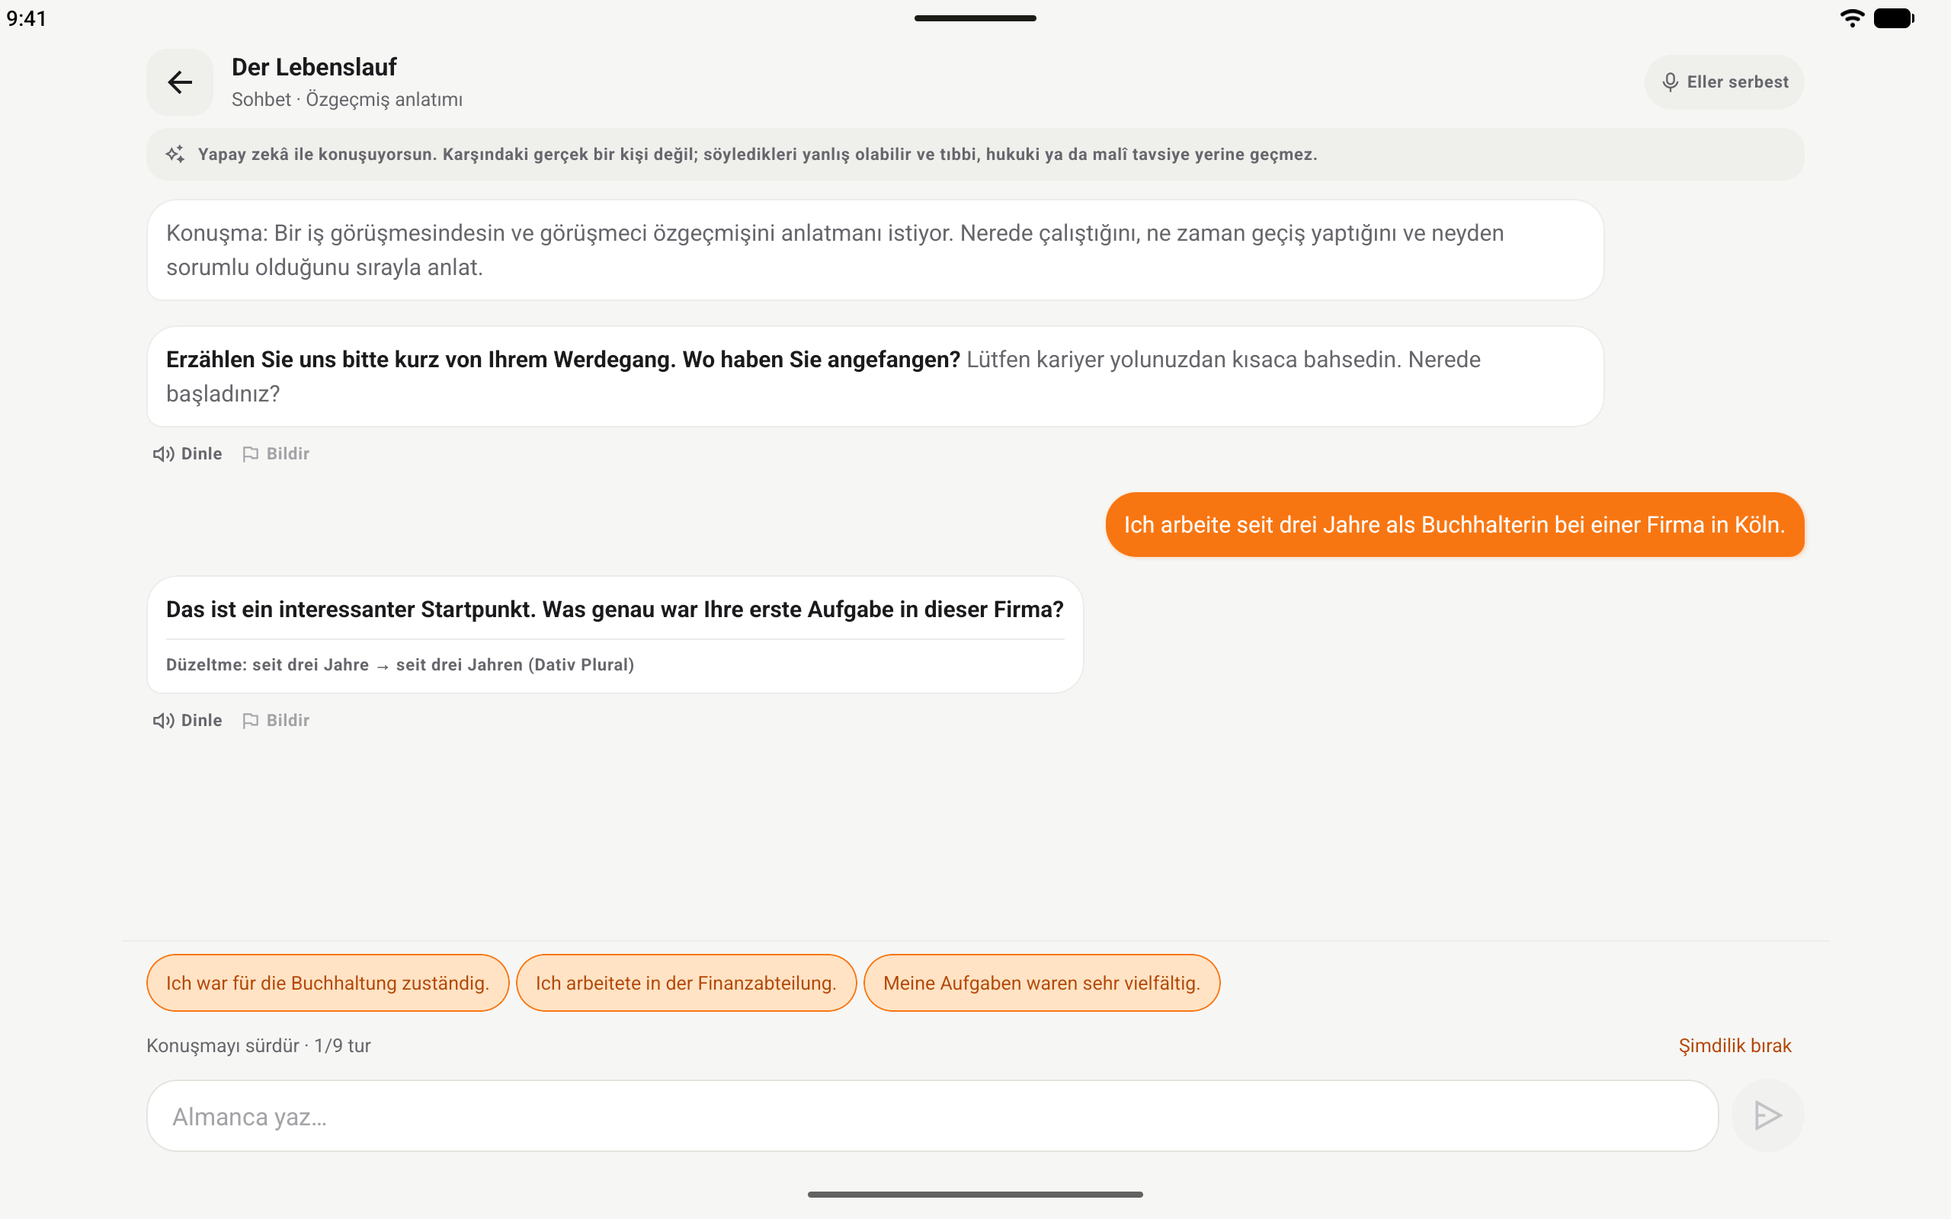
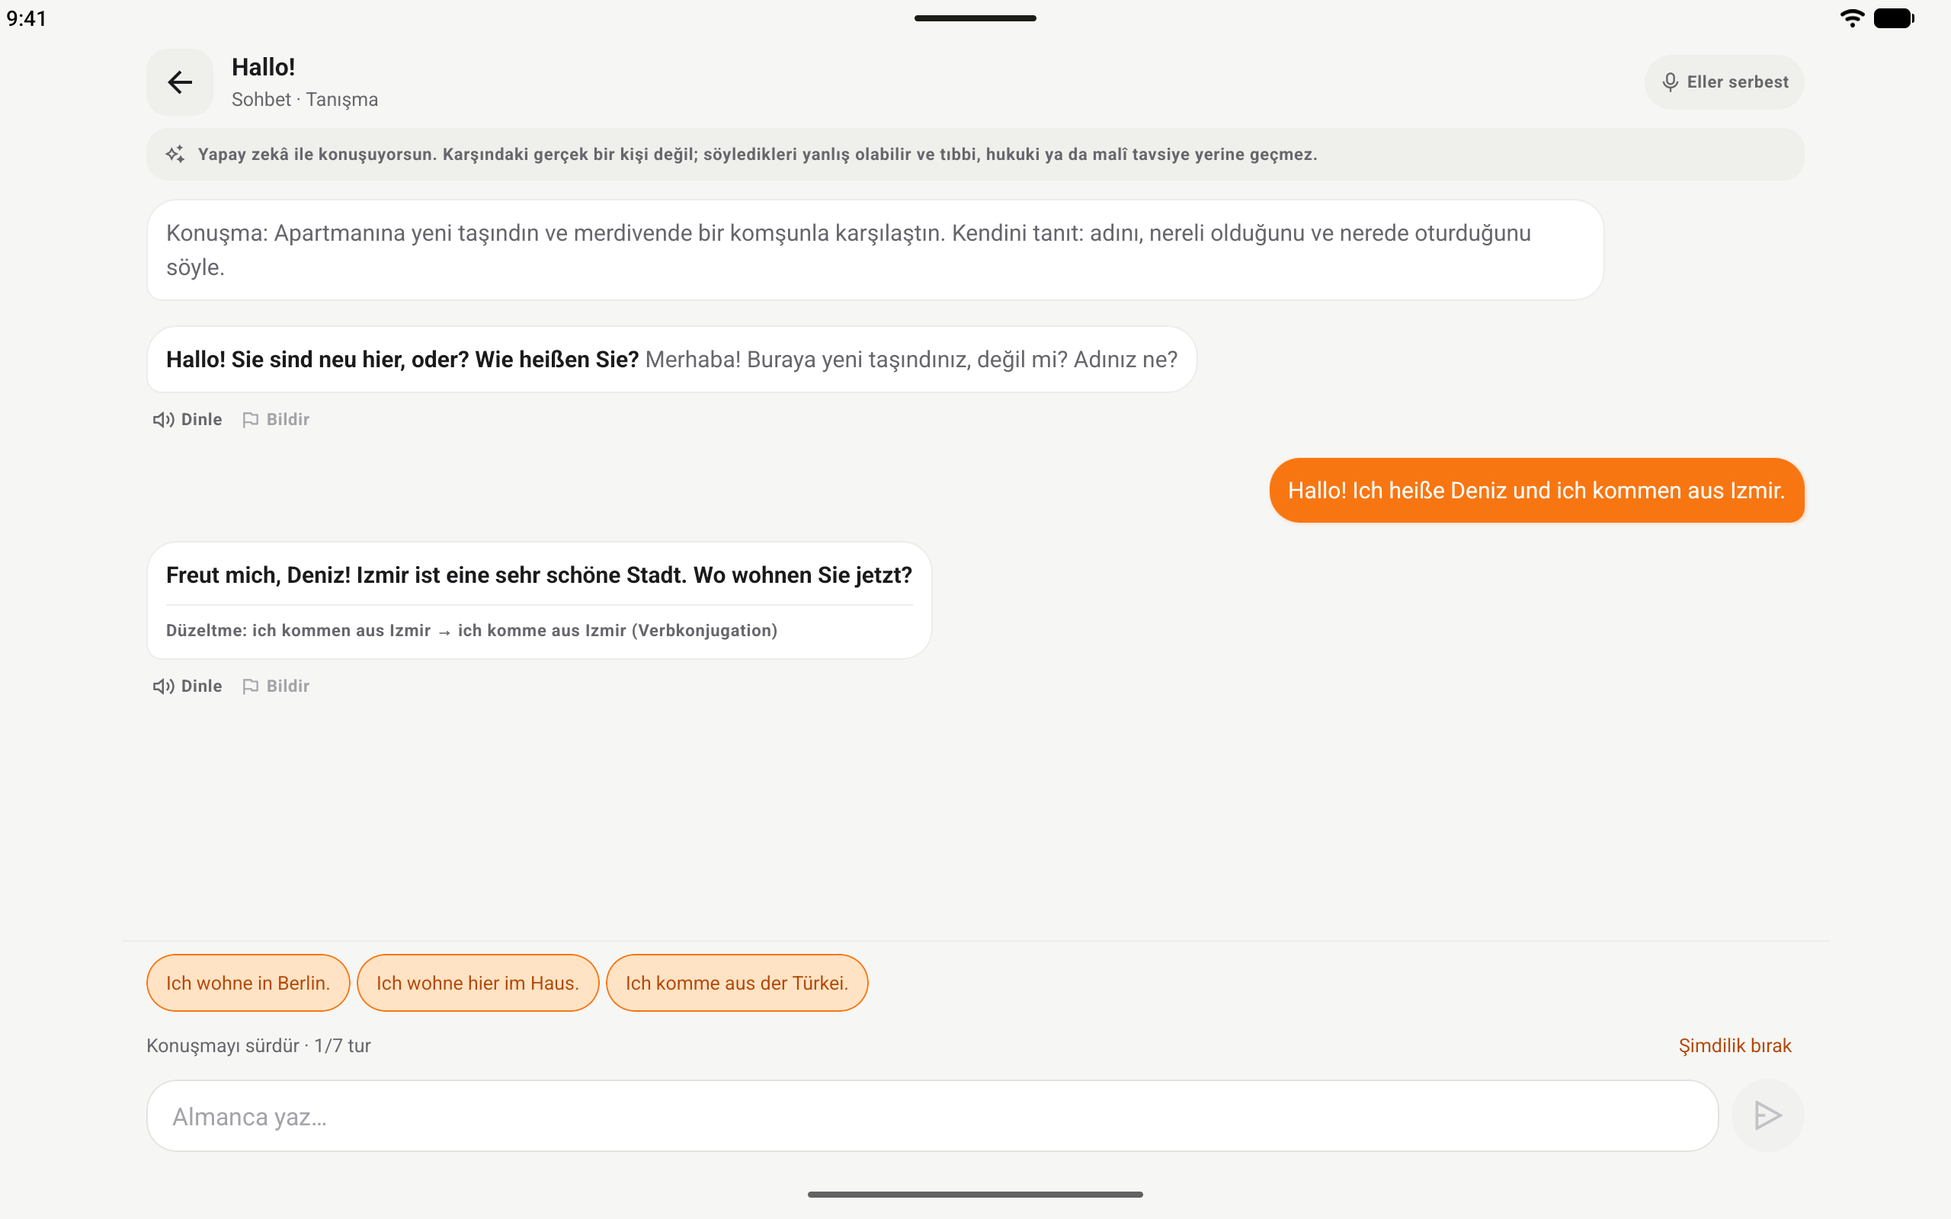
Vitrin 5. tur (16 kişi): ücretsiz/Premium tek paragraf, de sahneleri İngilizce kursa göre, konuşma karesi A1'den (3 çift × 4 cihaz), en/de 3. kare günlük tur, B2/C1 resmî yazı, günlük turda seri ve lig
Claude-Session: https://claude.ai/code/session_011dWXugcvRJqz57tBPnvci7

diff --git a/docs/store/README.md b/docs/store/README.md
@@ -131,6 +131,24 @@ içeriği önerilerini reddetti):** Türkçe 3. kare başlığı "Dört becerili
 "Ausbildung, iş ya da aile birleşimi için Almancaya sıfırdan mı başlıyorsun?" (vaat yok; sertifika uyarısı
 yerinde). "Sohbette yazarak da cevap verirsin" girişe taşındı. Yer için üç cümle kısaldı.
 
+**Vitrin provası 5. tur, 16 kişi (2026-10-05; Samet altı önerinin hepsini onayladı, "ürün çizgisinden ayrılmadan"):**
+- Ücretsiz/Premium sınırı tek paragrafta: önce ücretsiz olanlar, sonra "Yapay zekâyla konuşma ve yazma da ücretsiz
+  başlar: her seviyede … 2'şer çalışma açık; bitirip 7 gün üst üste çalışınca 2'şer yeni hak ve 1 deneme sınavı daha
+  gelir" (en/de aynı). Landing ücretsiz listesi de "Yapay zekâyla konuşma ve yazma:" diye başlıyor.
+- de vitrin İngilizce öğrenen Almanca konuşana göre: sahneler "Im Café, am Flughafen, beim Arzt, im
+  Vorstellungsgespräch, im Meeting" (İngilizce kursta `en-a1-cafe`, `en-a2-airport`, `en-a1-doctor`,
+  `en-b1-job-interview`, `en-a2-meeting`); "Lieber nicht sprechen? Im Chat antwortest du auch schriftlich."
+- Konuşma karesi üç dil çiftinde A1 ilk sohbetten (yukarıdaki kare listesi); landing konuşma dökümleri aynı çekimden.
+- en/de'de arama sonucundaki 3. kare günlük tur (yürüyüş 4'e indi; "3 free rounds" sınırla açılmasın).
+- İleri seviye: "Dili biliyorsan Beceriler'de B2 ya da C1'den başlarsın; başvuru, şikâyet ve resmî mektup yazma
+  görevleri de var" (Almanca: Beschwerdebrief, Formeller Widerspruch, Bewerbung um ein Stipendium; İngilizce:
+  letters, emails, reports). Landing Beceriler bölümü aynı.
+- Sosyal: günlük tur karesinin alt satırı seri ve arkadaşlarla lig (Görsel çerçeve: oyunlaştırma tek karede).
+- Yer için konuşma adımındaki "anadilde anlatımla başlar" cümlesi açıklamadan çıktı (başlık, giriş ve ilk kare
+  söylüyor; landing'de duruyor).
+- Reddedilenler (Samet, 4. tur): seviye başına deneme sınavı sayısı, İngilizce iş içeriği. Kapsanmayan kitleler
+  (aile, meslek Almancası, film/şarkı) içerik/ürün açığı; vitrin iddia etmez.
+
 **Beş sütun (öncelik sırası):** 1) **A1'den C1'e adım adım**, Türkçe anlatım ("müfredat" ve "tam" kullanılmaz) · 2) konuşarak
 öğren: gerçek hayattan durumlarda yapay zekâ karakteriyle sohbet + konuşmaya geri bildirim · 3) dört becerili deneme sınavları,
 konuşma ve yazma da puanlanır · 4) Cepte yürüyüş (ekran kapalı, **Premium**; ekran açık
@@ -141,10 +159,10 @@ yürüyüş ücretsizde günde 3 tur, `plan.free_walk`) · 5) günlük kelime tu
 | # | Sütun | Ekran | İçerik durumu (çekimde hazırlanacak) | Altyazı taslağı |
 |---|---|---|---|---|
 | 1 | A1'den C1'e adım adım | Patika: A1→C1 ünite haritası (Okuma, Dinleme, Konuşma, Yazma, Dil bilgisi, Quiz, Sınav) | A1, ilk ünite "şu an" (2026-10-05: `screenshots@` çekim süresince Samet'in onayıyla A1'e alındı, sonra B1/Almanca/Türkçe'ye döndü; satır öncesiyle aynı, yalnız şartlar 1.9.2 onayı yeni). Seviye çizgisi `currentLevel` A1 | Sıfırdan C1'e, Türkçe anlatımla · Seviyeni seç ya da kısa testle bul (2026-10-05; önce: A1'den C1'e adım adım, Türkçe anlatımla) |
-| 2 | Konuşma | Patika › Konuşma adımı: sahne sohbeti | Gerçek bir sahne (ör. B1 doktor randevusu); kullanıcının cümlesi ve düzeltmesi görünür; yapay zekâ bildirimi görünür | Konuş, düzeltmeni anında gör |
+| 2 | Konuşma | Patika › Konuşma adımı: sahne sohbeti | A1 ilk sohbet (tr/en: "Hallo!" komşuyla tanışma, de: "Hello!" dil kursunun ilk günü), yazarak cevaplanmış, tek fiil çekimi hatası ve düzeltmesi, üç öneri; yapay zekâ bildirimi görünür (2026-10-05) | Konuş, düzeltmeni anında gör · Gerçek hayattan sahneler; istersen yazarak cevap ver |
 | 3 | Sınav | Deneme sınavı sonucu | B1 deneme sınavı, yazma ya da konuşma bölümünün sonucu: bölüm yüzdesi, "Ölçüm hedeflerine göre" çubukları (görev puanlarından, 745930f5) ve yapılacaklar listesi; incelemede hata→düzeltme. Yeni etiketler ("yapay zekâ puanlar") build 11 ile: çekim build 11+ ile | tr: Dört becerili deneme sınavı · Konuşma ve yazma da puanlanır; her seviyede 1'i ücretsiz, fazlası Premium'da (2026-10-05, 4. tur; en/de başlık "puanlanır" cümlesi) |
 | 4 | Fark | Cepte yürüyüş + kilit ekranı | Ekran kapalı akış; kilit ekranında "Yürüyüş modu açık" | Ekrana bakmadan, yolda çalış · Günde 3 tur ücretsiz, ekran kapalıyken Premium (2026-10-05; ham görüntü ekran açık giriş) |
-| 5 | Alışkanlık | Günlük kelime turu | Sesli tur, kalan kelime sayısı | Her gün, unutmadan önce |
+| 5 | Alışkanlık | Günlük kelime turu | Sesli tur, kalan kelime sayısı | Her gün, unutmadan önce · Aralıklı tekrar; seri ve arkadaşlarla haftalık lig (oyunlaştırmanın tek karesi, ana mesaj değil) |
 | 6 | Beceriler | Beceri kütüphanesi | Beş beceri kartı | Okuma, dinleme, yazma, konuşma, dil bilgisi |
 
 **iPad 13" (yatay, 4 kare):** 1, 2, 3 ve 6 (tablet içerik kolonu en iyi bu ekranlarda).
@@ -175,17 +193,17 @@ Tasarım bu çerçeveyle yapılır:
 **Onaylanan Türkçe uzun açıklama (App Store + Play ortak, 2026-09-25):** 41 iddia koda, canlı
 ayara ve içeriğe karşı doğrulandı (kanıt tablosu oturum çıktısında). Kararlar: belge her yerde
 "başarı belgesi"; seri kademesi tavansız ("sonra her 7 günlük seride yeniden" doğru); fiyat
-cümlesi yok (mağaza ve paywall gösteriyor). Karakter: 3990/4000 (2026-10-05, 4. tur). Anlatım ekranda yazı, sesli okunan yalnız öğrenilen dil ("okursun"). Paragraflar
+cümlesi yok (mağaza ve paywall gösteriyor). Karakter: 3963/4000 (2026-10-05, 5. tur). Anlatım ekranda yazı, sesli okunan yalnız öğrenilen dil ("okursun"). Paragraflar
 tek satır: Console'a yapıştırınca satır ortasında kırılmasın.
 
 ```text
 Ausbildung, iş ya da aile birleşimi için Almancaya sıfırdan mı başlıyorsun? Lernomi ile Almancayı C1'e kadar, Türkçe anlatımla ve konuşarak öğren. Dili kullanırsın, konuşmana ve yazına geri bildirim alırsın, hazır olduğunda deneme sınavlarıyla kendini ölçersin. Konuşmaya çekiniyorsan sohbette yazarak da cevap verirsin. Kelime, okuma, dinleme ve dil bilgisi ücretsiz; reklam yok.
 
 A1'DEN C1'E ADIM ADIM
-Almancada 8.500'den fazla kelime ve 900'den fazla alıştırma. Patika seni seviye seviye, ünite ünite ilerletir: her ünitede okuma, dinleme, konuşma, yazma, dil bilgisi ve quiz adımları var; modül ve seviye sınavlarıyla nerede olduğunu görürsün. Başlangıç seviyeni kendin seç ya da kısa bir seviye testiyle bul. Dili biraz biliyorsan Beceriler'de istediğin seviyeden alıştırma yaparsın.
+Almancada 8.500'den fazla kelime ve 900'den fazla alıştırma. Patika seni seviye seviye, ünite ünite ilerletir: her ünitede okuma, dinleme, konuşma, yazma, dil bilgisi ve quiz adımları var; modül ve seviye sınavlarıyla nerede olduğunu görürsün. Başlangıç seviyeni kendin seç ya da kısa bir seviye testiyle bul. Dili biliyorsan Beceriler'de B2 ya da C1'den başlarsın; başvuru, şikâyet ve resmî mektup yazma görevleri de var.
 
 KONUŞARAK ÖĞREN
-Komşunla tanışırken, doktorda, ev bakarken, iş görüşmesinde, toplantıda… Gerçek hayatta karşına çıkacak durumları yapay zekâ karakteriyle konuşarak çalışırsın. Hatanı hemen düzeltir, takıldığında ne diyebileceğini önerir. Konuşma adımı Türkçe bir anlatımla başlar: kalıpları önce kendi dilinde okursun. İstersen sonunda puanlı konuşmayı denersin.
+Komşunla tanışırken, doktorda, ev bakarken, iş görüşmesinde, toplantıda… Gerçek hayatta karşına çıkacak durumları yapay zekâ karakteriyle konuşarak çalışırsın. Hatanı hemen düzeltir, takıldığında ne diyebileceğini önerir. İstersen sonunda puanlı konuşmayı denersin.
 
 DÖRT BECERİLİ DENEME SINAVLARI
 Her seviyede 1 deneme sınavı ücretsiz; Premium'da toplamda 50'den fazla. Her birinde okuma, dinleme, yazma ve konuşma bölümleri ve bölüm başına süre var. Okuma ve dinleme otomatik puanlanır; yazma ve konuşma cevaplarını yapay zekâ puanlar ve hatalarını düzeltmeleriyle gösterir. Sonunda başarı yüzdeni ve neye çalışman gerektiğini gösteren bir liste alırsın.
@@ -197,7 +215,7 @@ HER GÜN BİRKAÇ DAKİKA
 Günlük kelime turunda aralıklı tekrar, kelimeleri unutmadan önce yeniden karşına çıkarır. Pratikte istediğin kadar tekrar edersin; haftalık quiz, seri ve arkadaşlarla lig de var.
 
 ÜCRETSİZ
-Kelime çalışma, pratik, okuma, dinleme, dil bilgisi ve quiz ücretsiz ve sınırsız. Haftalık quiz, ekran açık yürüyüş ve her seviyede 1 deneme sınavı da ücretsiz. Her seviyede Patika'da ve Beceriler'de 2'şer konuşma ve yazma çalışması açık; bunları bitirip 7 gün üst üste çalışınca 2'şer hak ve 1 deneme sınavı daha açılır; her 7 günde yine.
+Kelime çalışma, pratik, okuma, dinleme, dil bilgisi ve quiz ücretsiz ve sınırsız; haftalık quiz, günde 3 yürüyüş turu (ekran açık) ve her seviyede 1 deneme sınavı da. Yapay zekâyla konuşma ve yazma da ücretsiz başlar: her seviyede Patika'da ve Beceriler'de 2'şer çalışma açık; bitirip 7 gün üst üste çalışınca 2'şer yeni hak ve 1 deneme sınavı daha gelir.
 
 PREMIUM
 Ekran kapalı Cepte yürüyüş, tüm deneme sınavları, Patika ve Beceriler'de bütün konuşma ve yazma çalışmaları, seri ve bitirme beklemeden. Her seviyede ilk 3 deneme sınavı hemen açık; bitirince sıradaki 3'ü gelir. Günlük adil kullanım sınırları Premium sayfasında yazar.
@@ -224,16 +242,16 @@ sahneler, bağlantılar). Almanca metinde Beceriler "Fertigkeiten" (Samet'in kar
 Haftalık quiz de en/de çevrili (kilitli `quiznative/*` paketleri); "explained in English /
 Erklärungen auf Deutsch" iddiası her içerik türü için doğru.
 
-en-US (3997/4000):
+en-US (3963/4000):
 
 ```text
 Learn German from zero to C1 with Lernomi: explained in English, practiced by speaking. Go beyond word lists: use the language, get feedback on your speaking and writing, and test yourself with mock exams when you're ready. Vocabulary, reading, listening and grammar are free, with no ads.
 
 A1 TO C1, STEP BY STEP
-More than 8,500 German words and more than 900 exercises. The Path takes you level by level, unit by unit: every unit has Reading, Listening, Speaking, Writing, Grammar and Quiz steps, and module and level exams show you where you stand. Pick your level or find it with a short placement test. Already know some German? Practice at any level in Skills.
+More than 8,500 German words and more than 900 exercises. The Path takes you level by level, unit by unit: every unit has Reading, Listening, Speaking, Writing, Grammar and Quiz steps, and module and level exams show you where you stand. Pick your level or find it with a short placement test. Already know some German? Start at B2 or C1 in Skills, with formal letters, applications and complaints to write.
 
 LEARN BY SPEAKING
-Meeting your neighbor, at the doctor's, viewing an apartment, in a job interview, in a meeting… Practice real-life situations by talking with an AI character. It corrects your mistakes right away and suggests what you could say when you get stuck. Shy about speaking? Type your answers in the chat. Each Speaking step opens with a short intro in English to the phrases you'll use. If you like, finish with a scored round.
+Meeting your neighbor, at the doctor's, viewing an apartment, in a job interview, in a meeting… Practice real-life situations by talking with an AI character. It corrects your mistakes right away and suggests what you could say when you get stuck. Shy about speaking? Type your answers in the chat. If you like, finish with a scored round.
 
 POCKET WALKING
 In Walk mode you study without looking at the screen: you hear the English cue and say the German word out loud. Free: 3 rounds a day with the screen on. Pocket Walking, with your phone in your pocket and the screen off, is Premium.
@@ -245,7 +263,7 @@ FOUR-SKILL MOCK EXAMS
 1 free mock exam per level; more than 50 in total with Premium. Each has Reading, Listening, Writing and Speaking sections, each with its own time limit. Reading and Listening are scored automatically; AI scores your written and spoken answers and shows your mistakes with corrections. At the end you get your score as a percentage and a list of what to work on.
 
 FREE
-Vocabulary, practice, reading, listening, grammar and quizzes are free and unlimited. The weekly quiz, Walk mode with the screen on and 1 mock exam per level are free too. At every level, 2 speaking and 2 writing tasks are open in both Path and Skills; finish them and study 7 days in a row to unlock 2 more of each and 1 more mock exam, then again every 7 days.
+Vocabulary, practice, reading, listening, grammar and quizzes are free and unlimited, plus the weekly quiz, 3 walk rounds a day with the screen on and 1 mock exam per level. AI speaking and writing start free too: at every level, 2 of each are open in Path and 2 in Skills; finish them and study 7 days in a row to get 2 more of each and 1 more mock exam.
 
 PREMIUM
 Pocket Walking with the screen off, every mock exam, and every Speaking and Writing step in Path plus all speaking and writing assessments in Skills, with no waiting for streaks or finishing. The first 3 mock exams per level open right away, then 3 more once you finish them. Daily fair-use limits are listed on the Premium page.
@@ -262,16 +280,16 @@ Terms of Use: https://www.lernomi.app/terms/en
 Privacy Policy: https://www.lernomi.app/privacy/en
 ```
 
-de-DE (3990/4000):
+de-DE (3959/4000):
 
 ```text
 Lerne mit Lernomi Englisch von null bis C1, mit Erklärungen auf Deutsch und durch Sprechen. Du benutzt die Sprache, bekommst Feedback zu Sprechen und Schreiben und misst dich mit Probeprüfungen. Vokabeln, Lesen, Hören und Grammatik: kostenlos, ohne Werbung.
 
 VON A1 BIS C1, SCHRITT FÜR SCHRITT
-Mehr als 7.000 Wörter und mehr als 900 Übungen. Der Pfad führt dich Niveau für Niveau, Einheit für Einheit: Jede Einheit hat die Schritte Lesen, Hören, Sprechen, Schreiben, Grammatik und Quiz; Modul- und Niveauprüfungen zeigen, wo du stehst. Dein Startniveau wählst du selbst oder per kurzem Einstufungstest. Mit Vorkenntnissen übst du bei den Fertigkeiten auf jedem Niveau.
+Mehr als 7.000 Wörter und mehr als 900 Übungen. Der Pfad führt dich Niveau für Niveau, Einheit für Einheit: Jede Einheit hat die Schritte Lesen, Hören, Sprechen, Schreiben, Grammatik und Quiz; Modul- und Niveauprüfungen zeigen, wo du stehst. Dein Startniveau wählst du selbst oder per kurzem Einstufungstest. Mit Vorkenntnissen startest du bei den Fertigkeiten auf B2 oder C1, auch mit formellen Briefen, E-Mails und Berichten.
 
 LERNEN DURCH SPRECHEN
-Beim Kennenlernen der Nachbarn, beim Arzt, bei der Wohnungsbesichtigung, im Vorstellungsgespräch, im Meeting … Alltagssituationen übst du im Gespräch mit einer KI-Figur. Sie korrigiert Fehler sofort und schlägt dir etwas vor, wenn du nicht weiterweißt. Im Chat kannst du auch schriftlich antworten. Jeder Sprechen-Schritt beginnt mit einer kurzen Einführung auf Deutsch. Am Ende kannst du dich bewerten lassen.
+Im Café, am Flughafen, beim Arzt, im Vorstellungsgespräch, im Meeting … Alltagssituationen übst du im Gespräch mit einer KI-Figur. Sie korrigiert Fehler sofort und schlägt dir etwas vor, wenn du nicht weiterweißt. Lieber nicht sprechen? Im Chat antwortest du auch schriftlich. Am Ende kannst du dich bewerten lassen.
 
 TASCHEN-GEHMODUS
 Im Gehmodus lernst du ohne Blick aufs Display: Du hörst den deutschen Hinweis und sagst das englische Wort laut. Kostenlos: 3 Runden täglich bei eingeschaltetem Bildschirm; der Taschen-Gehmodus mit Bildschirm aus ist Premium.
@@ -283,7 +301,7 @@ PROBEPRÜFUNGEN IN VIER FERTIGKEITEN
 1 Probeprüfung pro Niveau kostenlos, mit Premium insgesamt mehr als 50. Jede hat die Teile Lesen, Hören, Schreiben und Sprechen mit eigener Zeit. Lesen und Hören werden automatisch bewertet; Geschriebenes und Gesprochenes bewertet eine KI und zeigt deine Fehler mit Korrektur. Am Ende siehst du dein Ergebnis in Prozent und woran du arbeiten solltest.
 
 KOSTENLOS
-Vokabeln, Üben, Lesen, Hören, Grammatik und Quiz sind kostenlos und unbegrenzt. Auch das Wochen-Quiz, der Gehmodus bei eingeschaltetem Bildschirm und 1 Probeprüfung pro Niveau sind kostenlos. Pro Niveau sind im Pfad und bei den Fertigkeiten je 2 Sprech- und 2 Schreibaufgaben offen; schließt du sie ab und lernst 7 Tage am Stück, kommen je 2 weitere und 1 Probeprüfung dazu, alle 7 Tage wieder.
+Vokabeln, Üben, Lesen, Hören, Grammatik und Quiz sind kostenlos und unbegrenzt, dazu das Wochen-Quiz, 3 Geh-Runden am Tag bei eingeschaltetem Bildschirm und 1 Probeprüfung pro Niveau. Auch Sprechen und Schreiben mit der KI beginnen kostenlos: Pro Niveau sind im Pfad und bei den Fertigkeiten je 2 Aufgaben offen; schließt du sie ab und lernst 7 Tage am Stück, kommen je 2 weitere und 1 Probeprüfung dazu.
 
 PREMIUM
 Taschen-Gehmodus mit Bildschirm aus, alle Probeprüfungen und alle Sprech- und Schreibaufgaben in Pfad und Fertigkeiten, ohne auf Serie oder Abschluss zu warten. Pro Niveau sind 3 Probeprüfungen sofort offen, danach jeweils 3 weitere. Tägliche Fair-Use-Grenzen stehen auf der Premium-Seite.

diff --git a/docs/store/screenshots.md b/docs/store/screenshots.md
@@ -107,6 +107,13 @@ yeniden alınır.
   Tanıtım sayfası ana ekrandaki günlük tur kutusunu, mağaza karesi "boşluğu doldur" kartını kullanıyor.
 - Uygulamada hukuki güncelleme bildirimi ya da bildirim izni penceresi çıkarsa önce kapatılır;
   karede sistem penceresi kalmaz.
+- **İngilizce/Almanca arayüzde konuşma Türkçe geliyorsa** (sahne, çeviri, başlık): kurulu build'in paketli
+  konuşma metni sunucudaki anadil sözlüğüyle eşleşmiyor (audit T20). Güncel main'den build alınır
+  (`scripts/shots/sim.sh build` + iPad'e `simctl install`; Android `npm run release:android` + `adb install -r`),
+  sonra çekilir (2026-10-05).
+- Konuşma karesi 2026-10-05'ten beri A1 ilk sohbetten: "Yazarak cevapla / Answer by typing / Lieber tippen", tek
+  fiil çekimi hatası (tr-de "ich kommen aus der Türkei", en-de "ich kommen aus den USA", de-en "I comes from
+  Hamburg"). Aynı girdi aynı yanıtı döndürüyor; yanıt zayıfsa cümle değiştirilir.
 - Simülatörü iş bitince kapat: `xcrun simctl shutdown all` (Samet toplantıdayken açık kalmasın).
 
 ## Vitrin videosu kaydı (2026-10-02)
